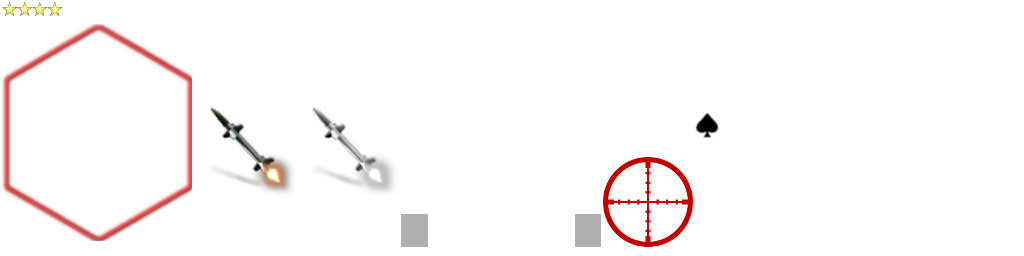
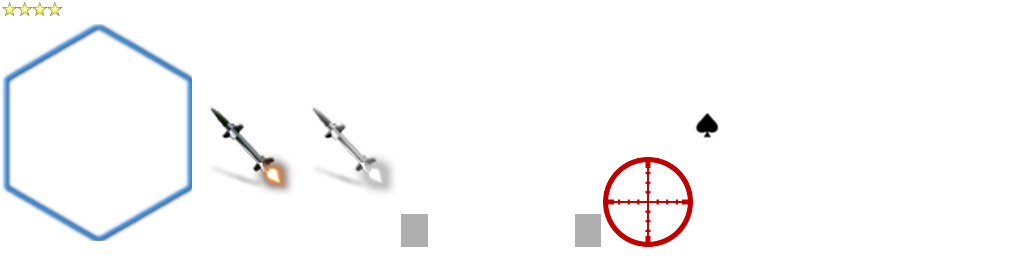
Unit: show/hideMoveable -> show/hideActiveable, change png too

Changed region(s): [[0.0, 0.0938, 0.1875, 0.9375]]

diff --git a/core/src/ch/asynk/rustanddust/game/states/StateMove.java b/core/src/ch/asynk/rustanddust/game/states/StateMove.java
@@ -26,7 +26,6 @@ public class StateMove extends StateCommon
         if (prevState == StateType.SELECT) {
             // use selectedHex and selectedUnit
             activeUnit = selectedUnit;
-            activeUnit.showMoveable();
             map.pathsInit(activeUnit);
             map.collectUpdate(activeUnit);
             if (to != null) {
@@ -44,7 +43,7 @@ public class StateMove extends StateCommon
             }
         }
 
-        activeUnit.enableOverlay(Unit.MOVE, false);
+        activeUnit.hideActiveable();
     }
 
     @Override
@@ -54,7 +53,7 @@ public class StateMove extends StateCommon
             return;
 
         // hide all but assists : want them when in rotation
-        activeUnit.hideMoveable();
+        activeUnit.hideActiveable();
         map.movesHide();
         map.hexUnselect(activeUnit.getHex());
         if (to != null)
@@ -138,17 +137,16 @@ public class StateMove extends StateCommon
         if (activeUnit != null ) {
             map.hexUnselect(activeUnit.getHex());
             if (activeUnit.canMove())
-                activeUnit.enableOverlay(Unit.MOVE, true);
+                activeUnit.showActiveable();
         }
         activeUnit = unit;
+        activeUnit.hideActiveable();
         Hex hex = activeUnit.getHex();
         map.pathsInit(activeUnit, hex);
-        activeUnit.showMoveable();
         map.movesHide();
         map.movesCollect(activeUnit);
         map.movesShow();
         map.hexSelect(hex);
-        activeUnit.enableOverlay(Unit.MOVE, false);
         ctrl.hud.notify(activeUnit.toString(), Position.TOP_CENTER);
         checkExit(activeUnit, hex);
     }

diff --git a/core/src/ch/asynk/rustanddust/game/map/Map1Units.java b/core/src/ch/asynk/rustanddust/game/map/Map1Units.java
@@ -104,10 +104,10 @@ public abstract class Map1Units extends Map0Hex
     public void unitsTargetHide()       { unitsShowOverlay(targetUnits, Unit.TARGET, false); }
     public void unitsAssistShow()       { unitsShowOverlay(assistUnits, Unit.MAY_FIRE, true); }
     public void unitsAssistHide()       { unitsShowOverlay(assistUnits, Unit.MAY_FIRE, false); unitsShowOverlay(assistUnits, Unit.FIRE, false); }
-    public void unitsMoveableShow()     { unitsShowOverlay(moveableUnits, Unit.MOVE, true); }
-    public void unitsMoveableHide()     { unitsShowOverlay(moveableUnits, Unit.MOVE, false); }
-    public void unitsBreakThroughShow() { unitsShowOverlay(breakthroughUnits, Unit.MOVE, true); }
-    public void unitsBreakThroughHide() { unitsShowOverlay(breakthroughUnits, Unit.MOVE, false); }
+    public void unitsMoveableShow()     { unitsShowOverlay(moveableUnits, Unit.ACTIVEABLE, true); }
+    public void unitsMoveableHide()     { unitsShowOverlay(moveableUnits, Unit.ACTIVEABLE, false); }
+    public void unitsBreakThroughShow() { unitsShowOverlay(breakthroughUnits, Unit.ACTIVEABLE, true); }
+    public void unitsBreakThroughHide() { unitsShowOverlay(breakthroughUnits, Unit.ACTIVEABLE, false); }
 
     private void unitsShowOverlay(UnitList units, int overlay, boolean on)
     {

diff --git a/core/src/ch/asynk/rustanddust/game/Unit.java b/core/src/ch/asynk/rustanddust/game/Unit.java
@@ -13,7 +13,7 @@ import ch.asynk.rustanddust.RustAndDust;
 
 public class Unit extends HeadedPawn
 {
-    public static final int MOVE        = 0;
+    public static final int ACTIVEABLE  = 0;
     public static final int TARGET      = 1;
     public static final int FIRE        = 2;
     public static final int MAY_FIRE    = 3;
@@ -363,8 +363,8 @@ public class Unit extends HeadedPawn
     }
 
     // SHOW / HIDE
-    public void showMoveable()      { enableOverlay(MOVE, true); }
-    public void hideMoveable()      { enableOverlay(MOVE, false); }
+    public void showActiveable()    { enableOverlay(ACTIVEABLE, true); }
+    public void hideActiveable()    { enableOverlay(ACTIVEABLE, false); }
     public void showTarget()        { enableOverlay(TARGET, true); }
     public void hideTarget()        { enableOverlay(TARGET, false); }
     public void showAttack()        { enableOverlay(FIRE, true); }

diff --git a/core/src/ch/asynk/rustanddust/game/states/StateCommon.java b/core/src/ch/asynk/rustanddust/game/states/StateCommon.java
@@ -55,7 +55,7 @@ public abstract class StateCommon implements State
         if (cfg.showMoves && unit.canMove()) map.movesShow();
         if (cfg.showTargets && unit.canEngage()) map.unitsTargetShow();
         if (cfg.showMoveAssists && unit.canMove()) map.unitsMoveableShow();
-        unit.enableOverlay(Unit.MOVE, false);
+        unit.hideActiveable();
     }
 
     protected void hidePossibilities()

diff --git a/core/src/ch/asynk/rustanddust/game/states/StateWithdraw.java b/core/src/ch/asynk/rustanddust/game/states/StateWithdraw.java
@@ -58,7 +58,7 @@ public class StateWithdraw extends StateCommon
 
         map.pathsSetExit(exitZone.orientation);
 
-        unit.hideMoveable();
+        unit.hideActiveable();
         if (to != null)
             map.pathHide(to);
         map.movesHide();
